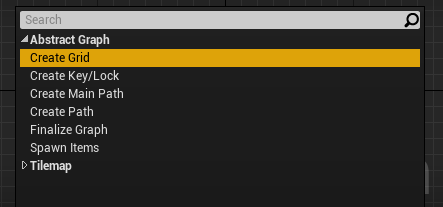
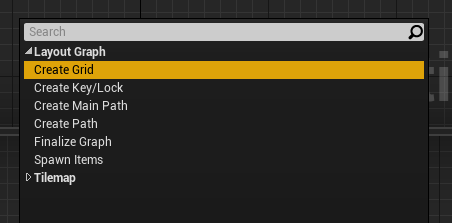
Updated the gridflow docs

diff --git a/source/builder_grid_flow.rst b/source/builder_grid_flow.rst
@@ -76,7 +76,7 @@ Select the Dungeon actor and click `Build Dungeon` button from the Details panel
 .. figure:: /images/tutorial/E/09.jpg
    :align: center
    
-   GridFlow dungeon built using the Prehistoric theme
+   GridFlow dungeon built using the sample theme
 
 .. figure:: /images/tutorial/E/08.jpg
    :align: center
@@ -231,70 +231,67 @@ Create a new node ``Layout Graph > Create Math Path``
 Unlink the ``Create Grid`` node from the ``Result`` node (do this by pressing Alt+LeftClick on the Create Grid Node's border)
 
 
-.. figure:: /images/tutorial/04/24.png
+Click the Build button. A main path would have been created in the grid
+
+.. image:: /images/tutorial/E/23.png
    :align: center
 
 
-Link the nodes up like below and hit Play
+Keep hitting the `Build` button for different result
 
-.. figure:: /images/tutorial/04/25.png
+.. image:: /images/tutorial/E/24.gif
    :align: center
 
-
-This node creates a main path in the grid.  Keep hitting the play button for different result
-
-.. figure:: /images/tutorial/04/26.gif
-   :align: center
    
 .. note::
-   If you do not see random results when you hit play, make sure randomize is enabled.  Enable this by clicking on an empty area in the Execution Graph to show the properties. In the inspector, select ``Randomize Seed``
+   If you do not see random results when you hit `Build`, make sure randomize is enabled.  Enable this by clicking the `Settings` button on the toolbar and choosing `Editor Settings`.  Then enabled `Randomize Seed`
 
 
 Select the ``Create Main Path`` node and inspect the properties
 
-.. figure:: /images/tutorial/04/27.png
+.. image:: /images/tutorial/E/25.png
    :align: center
 
 We'll leave everything to default for now
 
 Notice the `Path Name` parameter is set to ``main``   This is the name of the path and we will be referencing this path in the future nodes with this name
 
-You can adjust the size of the path.   ``Start Marker Name`` and ``Goal Marker Name`` lets you specify a name for the markers. You can then create these markers in the theme file and add any object you like.    In the `Prehistoric` theme, there's a marker already created with these names and a player controller is placed under ``SpawnPoint`` marker and a level goal handler prefab is placed under ``LevelGoal`` marker
+You can adjust the size of the path.   ``Start Marker Name`` and ``Goal Marker Name`` lets you specify a name for the markers. You can then create these markers in the theme file and add any object you like.    In the sample theme, there's a marker already created with these names and a Player Start is placed under ``SpawnPoint`` marker and a level goal handler prefab is placed under ``LevelGoal`` marker
 
-.. figure:: /images/tutorial/04/28.jpg
+.. image:: /images/tutorial/E/26.png
    :align: center
 
 
 Create Alternate Path
 ^^^^^^^^^^^^^^^^^^^^^
 
-We'll next create an alternate path pathing off the main path so the player has another way of reaching the goal
+We'll next create an alternate path branching off the main path so the player has another way of reaching the goal
 
 Create a new node ``Layout Graph > Create Path``
 
-.. figure:: /images/tutorial/04/menu/L_CreatePath.png
+.. image:: /images/tutorial/E/27.png
    :align: center
 
 Connect the nodes together like below
 
-.. figure:: /images/tutorial/04/29.png
+.. image:: /images/tutorial/E/28.png
    :align: center
 
-Leave all the properties as default and hit play
+Leave all the properties as default and hit `Build`
 
-.. figure:: /images/tutorial/04/30.png
+.. image:: /images/tutorial/E/29.png
    :align: center
 
 
 Select the ``Create Path`` node and inspect the properties
 
-.. figure:: /images/tutorial/04/31.png
+.. image:: /images/tutorial/E/30.png
    :align: center
 
 
-Change the `Path Name` from ``path`` to ``alt``.  We will be referencing this path as ``alt`` in the future
+Change the `Path Name` from ``branch`` to ``alt``.  We will be referencing this path as ``alt`` in the future
 
-.. figure:: /images/tutorial/04/32.png
+.. image:: /images/tutorial/E/31.png
    :align: center
 
 
@@ -304,13 +301,13 @@ The `End On Path` is left empty, so the end of this path doesn't connect back to
 
 Set the `End On Path` parameter to ``main``
 
-.. figure:: /images/tutorial/04/33.png
+.. image:: /images/tutorial/E/32.png
    :align: center
 
 
 ======================= =======================
 **Min Path Size**       3
-**Max Path Size**       3
+**Max Path Size**       5
 **Path Name**           alt
 **Node Color**          orange
 **Start From Path**     main
@@ -319,13 +316,22 @@ Set the `End On Path` parameter to ``main``
 
 This will make the alternate path (orange) connect back to the main path (green)
 
-.. figure:: /images/tutorial/04/34.png
+.. image:: /images/tutorial/E/34.png
    :align: center
 
 
-Keep hitting Play for different results
+Keep hitting Build for different results
 
-.. figure:: /images/tutorial/04/35.gif
+.. image:: /images/tutorial/E/33.gif
+   :align: center
+
+
+Assign a description to the node.  Select the `Create Path` node and set the description property to ``Alternate Path``
+
+.. image:: /images/tutorial/E/32A.png
+   :align: center
+
+.. image:: /images/tutorial/E/32B.png
    :align: center
 
 
@@ -336,10 +342,7 @@ We'll add a treasure room connected to the main path
 
 Add a new node ``Layout Graph > Create Path`` and set it up as follows:
 
-.. figure:: /images/tutorial/04/37.png
-   :align: center
-
-.. figure:: /images/tutorial/04/36.png
+.. image:: /images/tutorial/E/35.png
    :align: center
 
 ======================= =======================
@@ -351,7 +354,7 @@ Add a new node ``Layout Graph > Create Path`` and set it up as follows:
 **End On Path**         main
 ======================= =======================
 
-.. figure:: /images/tutorial/04/38.png
+.. image:: /images/tutorial/E/36.png
    :align: center
 
 
@@ -362,10 +365,10 @@ We'll add another treasure room connected to the ``alt`` path but keep the ``End
 
 Add a new node ``Layout Graph > Create Path`` and set it up as follows:
 
-.. figure:: /images/tutorial/04/39.png
+.. image:: /images/tutorial/E/37.png
    :align: center
 
-.. figure:: /images/tutorial/04/40.png
+.. image:: /images/tutorial/E/38.png
    :align: center
 
 ======================= =======================
@@ -377,7 +380,7 @@ Add a new node ``Layout Graph > Create Path`` and set it up as follows:
 **End On Path**         
 ======================= =======================
 
-.. figure:: /images/tutorial/04/41.png
+.. image:: /images/tutorial/E/39.png
    :align: center
 
 
@@ -389,10 +392,10 @@ We'll create a room connected to the main path which will act as the key room. W
 Add a new node ``Layout Graph > Create Path`` and set it up as follows:
 
 
-.. figure:: /images/tutorial/04/42.png
+.. image:: /images/tutorial/E/40.png
    :align: center
 
-.. figure:: /images/tutorial/04/43.png
+.. image:: /images/tutorial/E/41.png
    :align: center
 
 ======================= =======================
@@ -404,7 +407,7 @@ Add a new node ``Layout Graph > Create Path`` and set it up as follows:
 **End On Path**         
 ======================= =======================
 
-.. figure:: /images/tutorial/04/44.png
+.. image:: /images/tutorial/E/42.png
    :align: center
 
 .. note:: We've named this path ``key_room``. It will be referenced later on when creating the key locks
@@ -418,33 +421,33 @@ We'll next create a key-lock system on the main path.  Our key will go on the Ke
 
 Add a new node ``Layout Graph > Create Key Lock`` and set it up as follows:
 
-.. figure:: /images/tutorial/04/menu/L_CreateKeyLock.png
+.. image:: /images/tutorial/E/43.png
    :align: center
    
-.. figure:: /images/tutorial/04/45.png
+.. image:: /images/tutorial/E/44.png
    :align: center
 
-.. figure:: /images/tutorial/04/46.png
+.. image:: /images/tutorial/E/46.png
    :align: center
 
 ======================= =======================
 **Key Branch**          key_room
 **Lock Branch**         main
-**Key Marker Name**     KeyMain
-**Lock Marker Name**    LockMain
+**Key Marker Name**     KeyRed
+**Lock Marker Name**    LockRed
 ======================= =======================
 
-.. figure:: /images/tutorial/04/47.png
+.. image:: /images/tutorial/E/45.png
    :align: center
 
 
 Specify the `Key Branch` as ``key_room`` and `Lock Branch` as ``main``
 
-Set marker name for the key as ``KeyMain`` and lock as ``LockMain``.    Then in the theme file, you'd create marker nodes with these names and add your key and locked gate prefabs.   
+Set marker name for the key as ``KeyRed`` and lock as ``LockRed``.    Then in the theme file, you'd create marker nodes with these names and add your key and locked gate prefabs.   
 
-The prehistoric theme already has these setup
+The sample theme already has these setup
 
-.. figure:: /images/tutorial/04/48.png
+.. image:: /images/tutorial/E/KeyRed.png
    :align: center
    
 
@@ -456,29 +459,29 @@ We need a key-lock to guard the treasure room in the main branch
 Add a new node ``Layout Graph > Create Key Lock`` and set it up as follows:
 
 
-.. figure:: /images/tutorial/04/49.png
+.. image:: /images/tutorial/E/47.png
    :align: center
 
-.. figure:: /images/tutorial/04/50.png
+.. image:: /images/tutorial/E/48.png
    :align: center
 
 ======================= =======================
 **Key Branch**          main
 **Lock Branch**         treasure_main
-**Key Marker Name**     KeyTreasure
-**Lock Marker Name**    LockTreasure
+**Key Marker Name**     KeyYellow
+**Lock Marker Name**    LockYellow
 ======================= =======================
 
 
-.. figure:: /images/tutorial/04/51.png
+.. image:: /images/tutorial/E/49.png
    :align: center
 
 
-Set marker name for the key as ``KeyTreasure`` and lock as ``LockTreasure``.    Then in the theme file, you'd create marker nodes with these names and add your key and locked gate prefabs.   
+Set marker name for the key as ``KeyYellow`` and lock as ``LockYellow``.    Then in the theme file, you'd create marker nodes with these names and add your key and locked gate prefabs.   
 
-The prehistoric theme already has these setup
+The sample theme already has these setup
 
-.. figure:: /images/tutorial/04/52.png
+.. image:: /images/tutorial/E/KeyYellow.png
    :align: center
    
    
@@ -490,14 +493,12 @@ We'll use the ``Spawn Items`` node to spawn enemies on the ``main`` and ``alt`` 
 Create a new node ``Layout Graph > Spawn Items`` and set it up as follows:
 
 
-.. figure:: /images/tutorial/04/menu/L_SpawnItems.png
+.. image:: /images/tutorial/E/50.png
    :align: center
    
-.. figure:: /images/tutorial/04/53.png
+.. image:: /images/tutorial/E/52.png
    :align: center
-
-.. figure:: /images/tutorial/04/54.png
-   :align: center
+   
 
 ======================= =======================
 **Paths**               main, alt
@@ -507,21 +508,21 @@ Create a new node ``Layout Graph > Spawn Items`` and set it up as follows:
 **Max Count**           5
 ======================= =======================
 
-.. figure:: /images/tutorial/04/55.png
+.. image:: /images/tutorial/E/51.png
+   :align: center
+
+.. image:: /images/tutorial/E/53.png
    :align: center
 
 
 This will spawn enemies in the nodes, gradually increasing the number of enemies based on the difficulty. The difficulty increases as we get closer to the goal. You can control this from the `Spawn Method` properties. Leave it to default for now
 
 
-We've specified the marker name as ``Grunt`` and an appropriate marker node should be created in the theme file so we can spawn prefabs under it.  The pre-historic theme already has this marker
+We've specified the marker name as ``Grunt`` and an appropriate marker node should be created in the theme file so we can spawn prefabs under it.  The sample theme already has this marker
 
-
-.. figure:: /images/tutorial/04/56.png
+.. image:: /images/tutorial/E/54.png
    :align: center
 
-
-You can control the placement of items (in the tilemap) from the `Placement Method` property section. Leave it to default for now
 
 Spawn Bonus (Treasure Chests)
 ^^^^^^^^^^^^^^^^^^^^^^^^^^^^^
